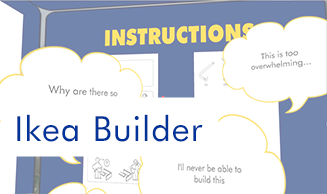
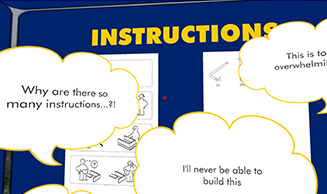
Added placeholder blog feature images and moved project panels around

diff --git a/src/components/image.js b/src/components/image.js
@@ -23,7 +23,7 @@ const DynamicImage = (props) => {
           }
         }
       }
-      lisasButtonImage: file(relativePath: { eq: "theButton.png" }) {
+      lisasButtonImage: file(relativePath: { eq: "lisasButton.png" }) {
         childImageSharp {
           fluid(maxWidth: 400) {
             ...GatsbyImageSharpFluid

diff --git a/src/pages/projects/lisas-button/lisas-button.md b/src/pages/projects/lisas-button/lisas-button.md
@@ -2,7 +2,7 @@
 path: /projects/lisas-button
 title: Lisa's Button
 date: 2017-09-24
-featuredImage: ./lisas-button-featured.png
+featuredImage: ./lisas-button-featured.jpg
 ---
 
 Test!

diff --git a/src/pages/projects/smartphone-market-shares/smartphone-market-shares.md b/src/pages/projects/smartphone-market-shares/smartphone-market-shares.md
@@ -2,4 +2,5 @@
 path: /projects/smartphone-market-shares
 title: Visualizng Smartphone Market Shares
 date: 2017-12-03
+featuredImage: ./chihiro.jpg
 ---

diff --git a/src/pages/projects/temperature-anomalies/temperature-anomalies.md b/src/pages/projects/temperature-anomalies/temperature-anomalies.md
@@ -2,4 +2,5 @@
 path: /projects/temperature-anomalies
 title: Visualizing Temperature Anomalies
 date: 2017-10-23
+featuredImage: ./chihiro.jpg
 ---

diff --git a/src/pages/projects/my-spotify-data/my-spotify-data.md b/src/pages/projects/my-spotify-data/my-spotify-data.md
@@ -2,4 +2,5 @@
 path: /projects/my-spotify-data
 title: Visualizing My Spotify Data
 date: 2017-11-22
+featuredImage: ./chihiro.jpg
 ---

diff --git a/src/pages/projects/quick-comms-cap/quick-comms-cap.md b/src/pages/projects/quick-comms-cap/quick-comms-cap.md
@@ -2,4 +2,5 @@
 path: /projects/quick-comms-cap
 title: The Quick Communication Cap
 date: 2017-10-13
+featuredImage: ./chihiro.jpg
 ---

diff --git a/src/pages/projects/ikea-builder/ikea-builder.md b/src/pages/projects/ikea-builder/ikea-builder.md
@@ -2,4 +2,5 @@
 path: /projects/ikea-builder
 title: The IKEA Builder
 date: 2017-11-13
+featuredImage: ./chihiro.jpg
 ---

diff --git a/src/pages/projects/planting-hygge/planting-hygge.md b/src/pages/projects/planting-hygge/planting-hygge.md
@@ -2,4 +2,5 @@
 path: /projects/planting-hygge
 title: Planting Hygge
 date: 2017-12-04
+featuredImage: ./chihiro.jpg
 ---
